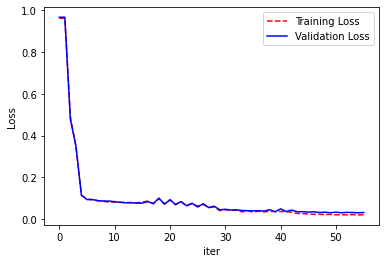
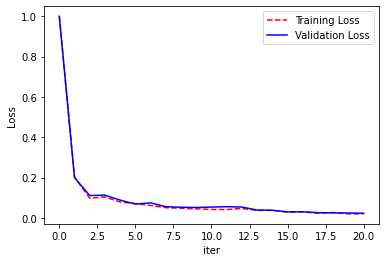
fixed svm

diff --git a/linear_gradient/linear_model.py b/linear_gradient/linear_model.py
@@ -70,11 +70,14 @@ class LinearModel(object):
             
             
             self.weights = list(map(sub , self.weights , galpha))
-            # self.weights = list(map(add , self.weights , galpha))
 
 
             print("\r  Train: %.2f Validation: %.2f log10(|g|): %.2f          " % (training_loss, validation_loss, math.log10(dot(g, g))), end='')
             n_iter += 1
+
+
+            # if n_iter % 10 == 0:
+            #   print( n_iter ,self.weights )
             
             
             # # Early Stopping:

diff --git a/linear_gradient/loss_functions.py b/linear_gradient/loss_functions.py
@@ -35,5 +35,5 @@ class HingeLoss(object):
         t=sample.label
         if t*y >= 1:
             return list(map(lambda x : x * 0 ,sample.features ))
-        else: return list(map(lambda x : -x * prediction ,sample.features ))
+        else: return list(map(lambda x : -x * t ,sample.features ))
 
